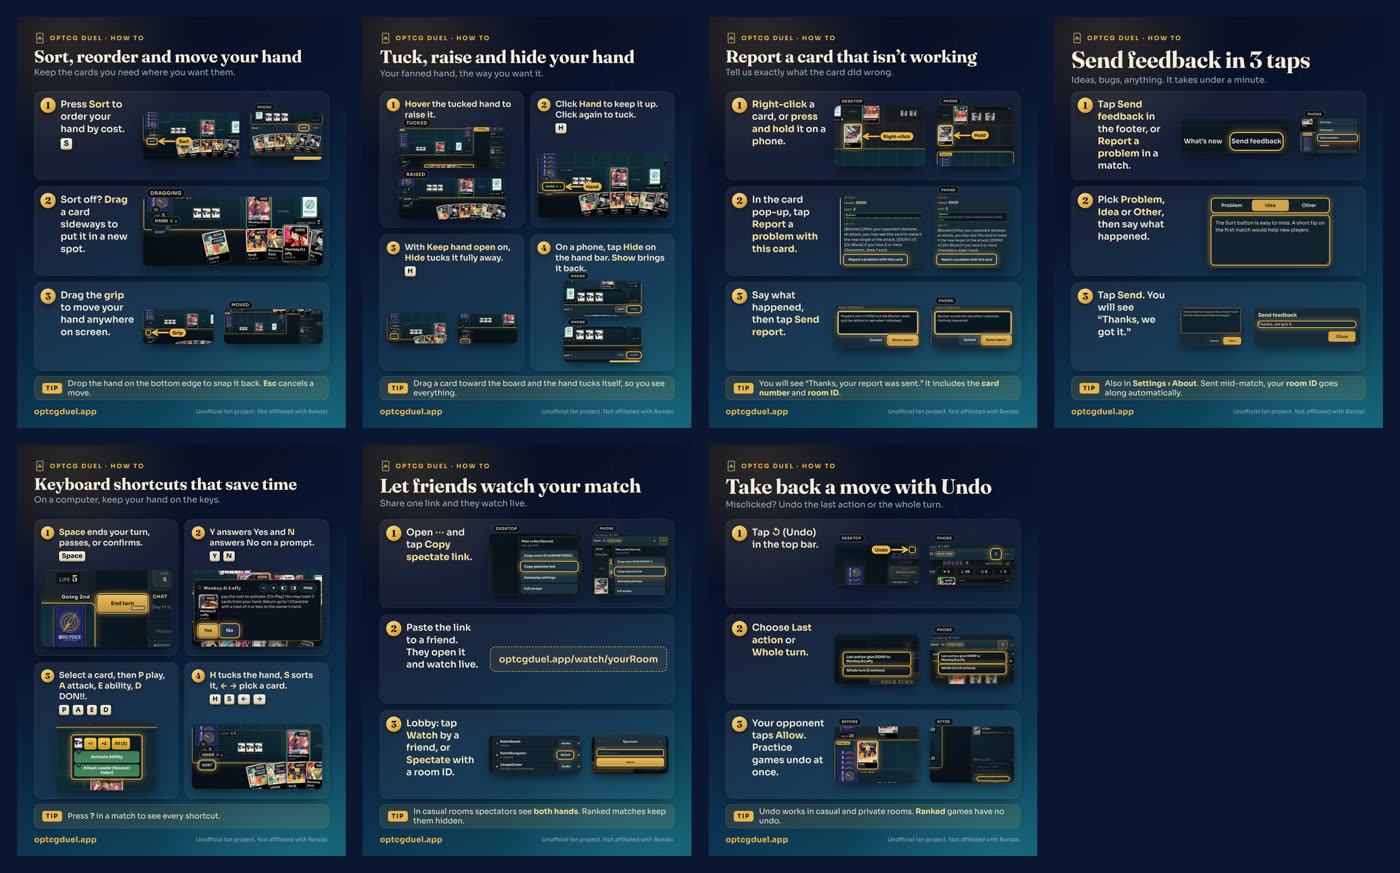
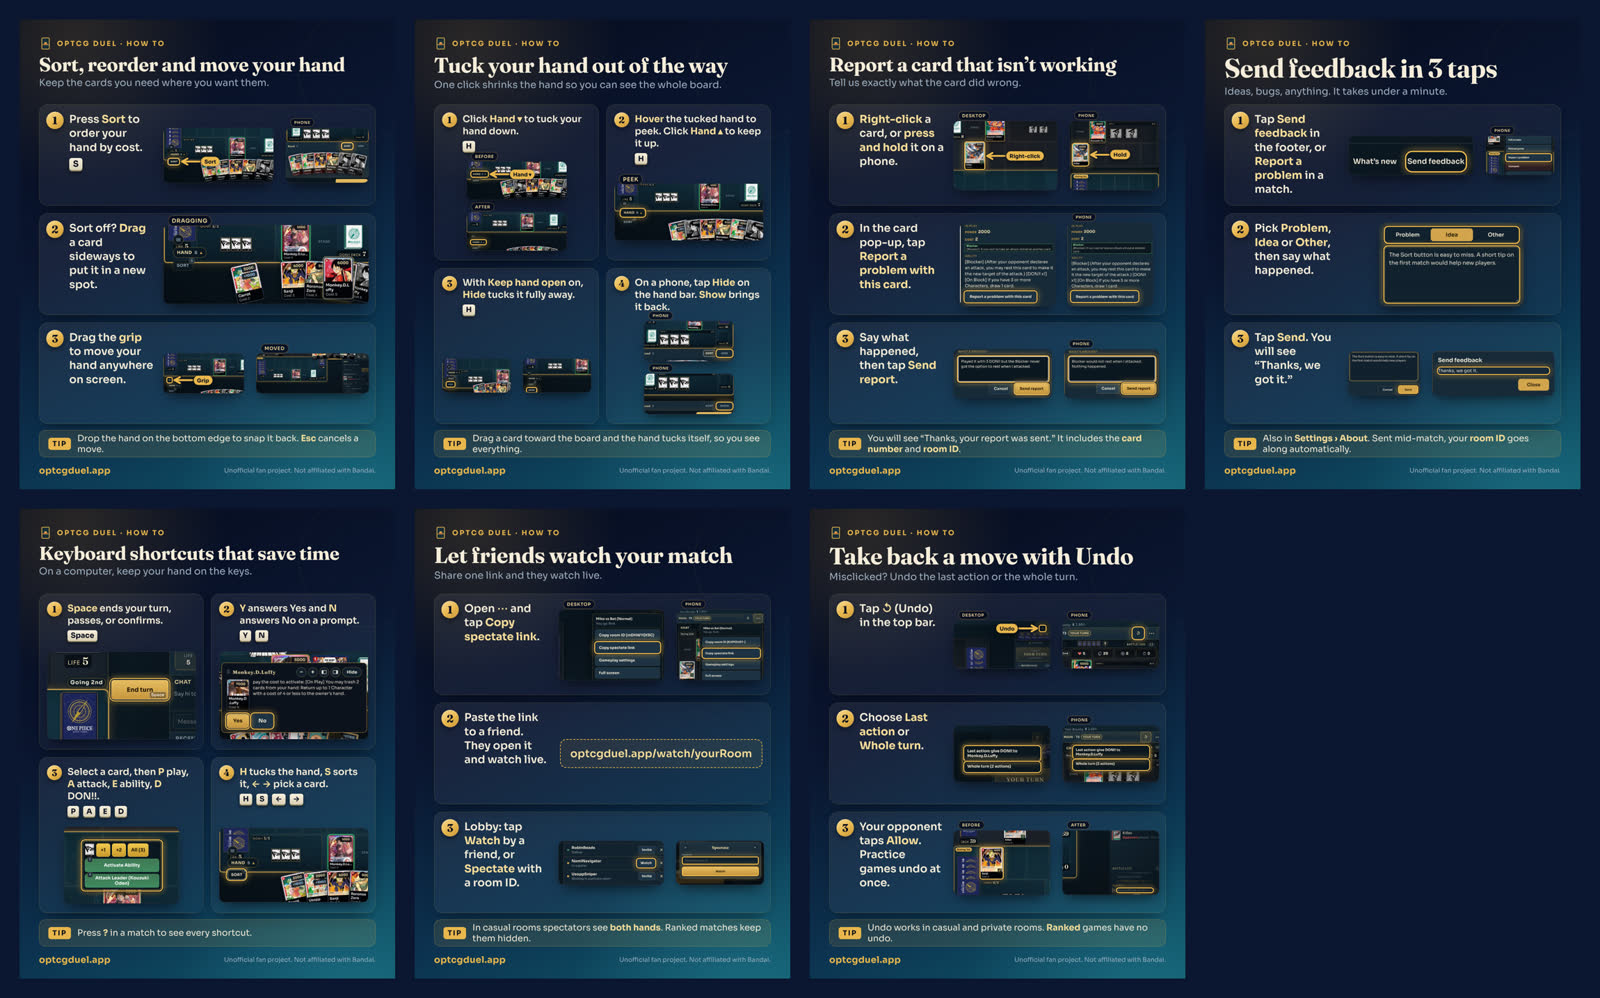
Infographics: hand tuck leads with the Hand button (before/after), peek second
Claude-Session: https://claude.ai/code/session_01CqQEHypStxLbu1M3fozxfT

diff --git a/trailer/video/src/infographics/data.ts b/trailer/video/src/infographics/data.ts
@@ -67,20 +67,21 @@ export const INFOGRAPHICS: InfographicSpec[] = [
   },
   {
     id: 'hand-tuck',
-    title: 'Tuck, raise and hide your hand',
-    subtitle: 'Your fanned hand, the way you want it.',
+    title: 'Tuck your hand out of the way',
+    subtitle: 'One click shrinks the hand so you can see the whole board.',
     steps: [
       {
-        text: '**Hover** the tucked hand to raise it.',
+        text: 'Click **Hand ▾** to tuck your hand down.',
+        keys: ['H'],
         shots: [
-          cmp('h-tucked', {...handCrop, tag: 'Tucked', rings: [{rect: {x: 232, y: 668, w: 420, h: 30}, pad: 3, radius: 10}]}),
-          cmp('h-hover', {...handCrop, tag: 'Raised'}),
+          cmp('h-pinned', {...handCrop, tag: 'Before', rings: [{k: 'toggle', pad: 5, arrow: 'right', label: 'Hand ▾'}]}),
+          cmp('h-tucked', {...handCrop, tag: 'After', rings: [{k: 'toggle', pad: 5}]}),
         ],
       },
       {
-        text: 'Click **Hand** to keep it up. Click again to tuck.',
+        text: '**Hover** the tucked hand to peek. Click **Hand ▴** to keep it up.',
         keys: ['H'],
-        shots: [cmp('h-pinned', {...handTight, rings: [{k: 'toggle', pad: 5, arrow: 'right', label: 'Hand'}]})],
+        shots: [cmp('h-hover', {...handCrop, tag: 'Peek', rings: [{k: 'toggle', pad: 5}]})],
       },
       {
         text: 'With **Keep hand open** on, **Hide** tucks it fully away.',
